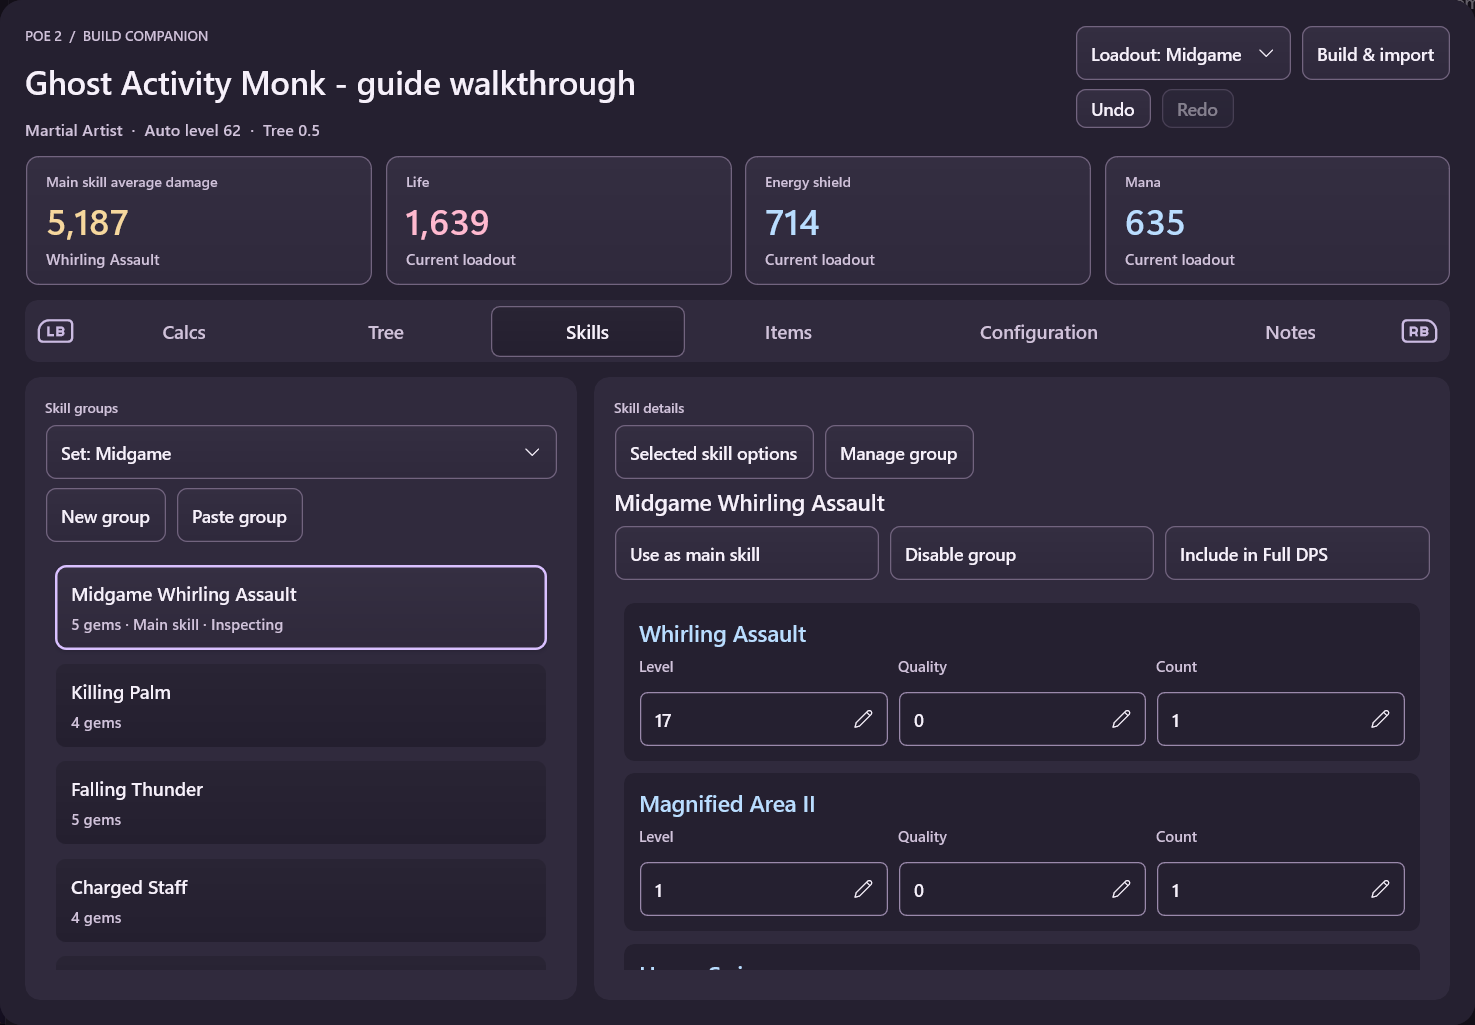
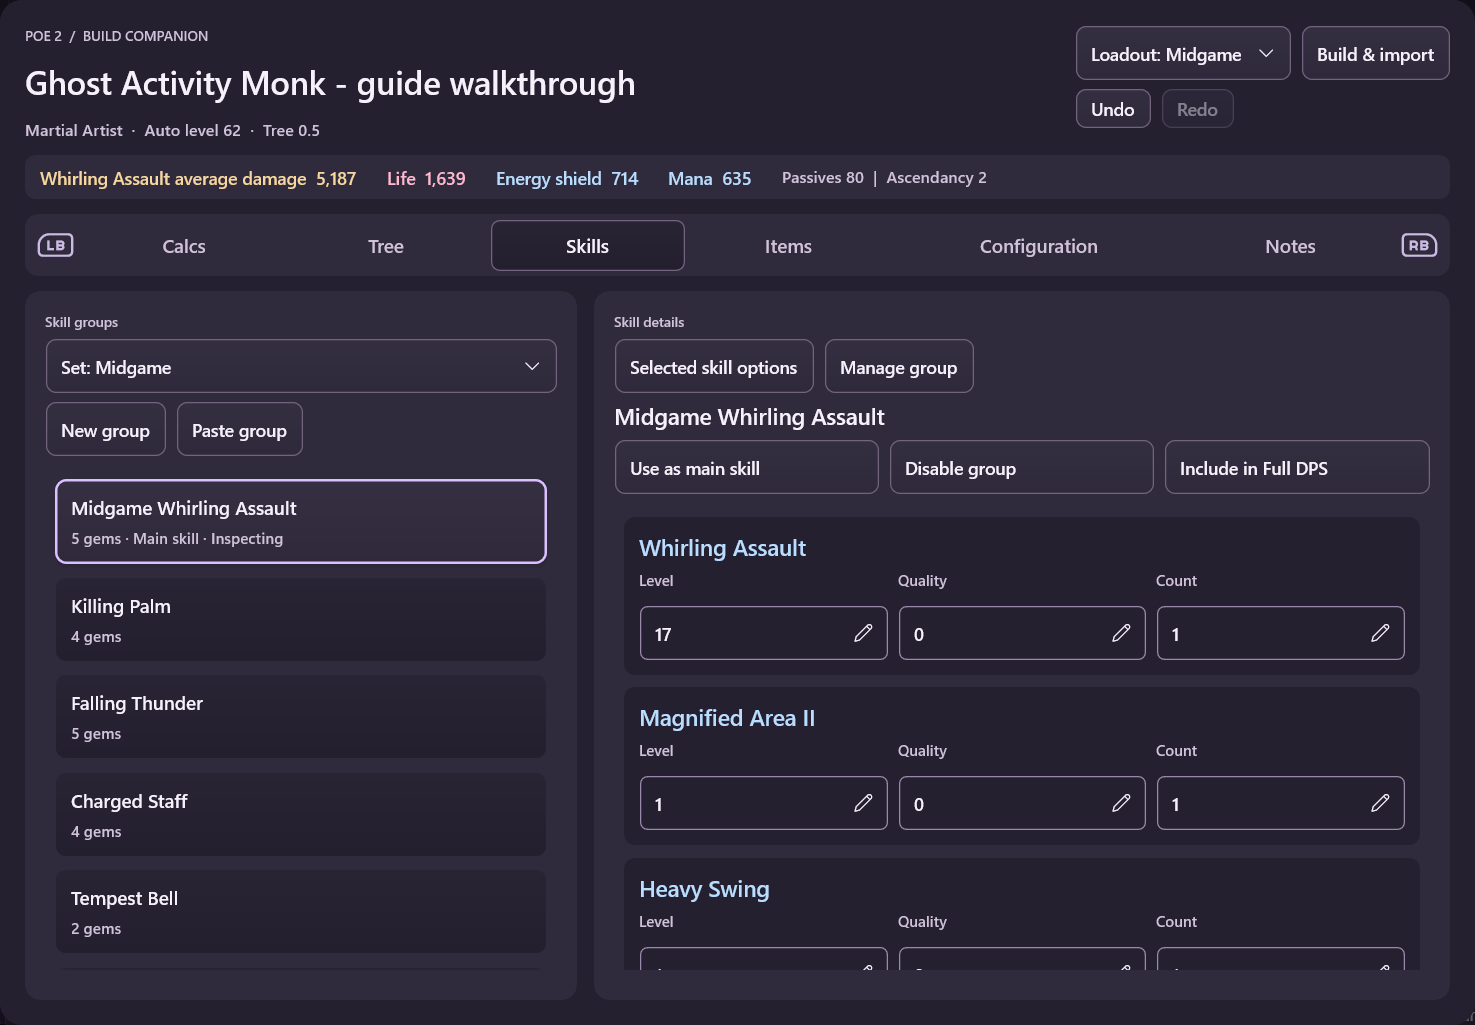
Add PoB build-control shortcuts and consistent section summaries

diff --git a/src/OverlayFrontend.WinUI/Validation/OverlayShellPage.PobQuickControlsValidation.cs b/src/OverlayFrontend.WinUI/Validation/OverlayShellPage.PobQuickControlsValidation.cs
@@ -46,6 +46,17 @@ internal sealed partial class OverlayShellPage
                 await L3();await WebAppUntil(()=>collection.CaptureFocusedItem()?.Index==remembered.Index);
                 if(Math.Abs(scroll.VerticalOffset-offset)>.5)throw new Exception("Returning to the row moved its viewport");
                 checks.Add("L3 returns to the remembered virtualized row and exact scroll position");
+                await R3();await WebAppUntil(()=>Focused("Widget.pob.loadout")||Focused("Widget.pob.menu"));
+                if(Math.Abs(scroll.VerticalOffset-offset)>.5)throw new Exception("R3 to build controls moved the passive viewport");
+                await R3();await WebAppUntil(()=>collection.CaptureFocusedItem()?.Index==remembered.Index&&Focused("Widget.pob.passives"));
+                if(Math.Abs(scroll.VerticalOffset-offset)>.5)throw new Exception("R3 return moved the passive viewport");
+                checks.Add("R3 reaches build controls and restores the deep virtualized passive row without scrolling");
+                var map=FindSlot(surface)!;map.Enter();
+                await WebAppUntil(()=>map.IsBrowsing);
+                if(!surface!.CaptureControllerGuide().Any(h=>h.Button==ControllerButton.RightStick&&h.Label=="Build controls"))throw new Exception("Tree focus omitted the R3 build-controls hint");
+                await R3();await WebAppUntil(()=>Focused("Widget.pob.loadout")||Focused("Widget.pob.menu"));
+                await R3();await WebAppUntil(()=>Focused("Widget.pob.map"));
+                checks.Add("Tree WebView passes R3 to its ancestor and shows the matching hint");
                 Invoke("Widget.pob.tab.4");
                 await WebAppUntil(()=>FindControl<Button>(surface!,"Widget.pob.config.category.0") is not null);
                 var count=0;while(FindControl<Button>(surface!,"Widget.pob.config.category."+count)is not null)count++;
@@ -68,6 +79,35 @@ internal sealed partial class OverlayShellPage
                     if(!Focused(category))throw new Exception("A short configuration list acquired an unnecessary shortcut");
                     checks.Add("Short configuration lists retain ordinary navigation without an L3 jump");
                 }
+                double? compactTabsY=null;
+                foreach(var (tab,target,large) in new[]{("Widget.pob.tab.2","Widget.pob.skill.1",false),("Widget.pob.tab.3","Widget.pob.item.1",false),("Widget.pob.section","Widget.pob.headline.2",true)})
+                {
+                    Invoke(tab);
+                    await WebAppUntil(()=>FindControl<Button>(surface!,target) is not null&&FindControl<Button>(surface!,"Widget.pob.cancel-operation") is null&&
+                        (FindControl<TextBlock>(surface!,"Widget.pob.headline.value.0") is not null)==large);
+                    await Task.Delay(350);
+                    var control=FindControl<Button>(surface!,target)!;control.Focus(FocusState.Keyboard);control.StartBringIntoView();
+                    await Task.Delay(150);
+                    if(!large)
+                    {
+                        var y=FindControl<Button>(surface!,tab)!.TransformToVisual(surface).TransformPoint(default).Y;
+                        if(compactTabsY is {} oldY&&Math.Abs(y-oldY)>1)throw new Exception("Skills and Items tabs shifted despite identical compact summaries");
+                        compactTabsY=y;
+                    }
+                    await R3();await WebAppUntil(()=>Focused("Widget.pob.loadout")||Focused("Widget.pob.menu"));
+                    await R3();await WebAppUntil(()=>Focused(target));
+                    checks.Add(tab+" has the correct summary and R3 restores "+target);
+                }
+                Invoke("Widget.pob.tab.2");
+                await WebAppUntil(()=>FindControl<Button>(surface!,"Widget.pob.gem.1level") is not null);
+                FindControl<Button>(surface!,"Widget.pob.gem.1level")!.Focus(FocusState.Keyboard);
+                await RouteButtonAsync(ControllerButton.A,ControllerEventPhase.Pressed);await RouteButtonAsync(ControllerButton.A,ControllerEventPhase.Released);
+                await WebAppUntil(()=>ActiveControllerKeyboard is not null);
+                var keyboard=ActiveControllerKeyboard;await R3();
+                if(!ReferenceEquals(keyboard,ActiveControllerKeyboard))throw new Exception("R3 escaped the controller keyboard");
+                await RouteButtonAsync(ControllerButton.B,ControllerEventPhase.Pressed);await RouteButtonAsync(ControllerButton.B,ControllerEventPhase.Released);
+                checks.Add("R3 remains owned by the open keyboard");
+                async Task R3(){await RouteButtonAsync(ControllerButton.RightStick,ControllerEventPhase.Pressed);await RouteButtonAsync(ControllerButton.RightStick,ControllerEventPhase.Released);}
                 async Task L3(){await RouteButtonAsync(ControllerButton.LeftStick,ControllerEventPhase.Pressed);await RouteButtonAsync(ControllerButton.LeftStick,ControllerEventPhase.Released);}
                 bool Focused(string id){for(var item=FocusManager.GetFocusedElement(XamlRoot) as DependencyObject;item is not null;item=VisualTreeHelper.GetParent(item))if(AutomationProperties.GetAutomationId(item)==id)return true;return false;}
                 void Invoke(string id){var button=FindControl<Button>(surface!,id)!;((IInvokeProvider)new ButtonAutomationPeer(button).GetPattern(PatternInterface.Invoke)).Invoke();}

diff --git a/samples/PobCompanion/Tests/QuickControlsTests.cs b/samples/PobCompanion/Tests/QuickControlsTests.cs
@@ -21,6 +21,33 @@ internal static class QuickControlsTests
         async Task Jump(string target){await widget.OnActionAsync(new("quick-controls."+target,"fixture"));check(View().FocusGroupEntryRequest?.GroupId==target,"L3 requests remembered group "+target);}
         try
         {
+            Set("result",baseline);
+            foreach(var section in new[]{"Calcs","Tree","Skills","Items","Configuration","Notes"})
+            {
+                Set("section",section);Set("detailKind","");
+                var view=View();var nodes=Nodes(view.Root).ToArray();
+                check(nodes.Any(n=>n.Id=="pob.headline.0")== (section=="Calcs"),section+" uses large statistic cards only in Calcs");
+                check(nodes.Any(n=>n.Id=="pob.compact.CombinedDPS")== (section!="Calcs"),section+" has exactly the intended summary layout");
+                check(nodes.Single(n=>n.Id=="pob.root").Shortcuts!.Any(s=>s.Button==ControllerButton.RightStick&&s.ActionId=="quick-controls.pob.buildtools"),section+" exposes R3 Build controls");
+                check(nodes.Single(n=>n.Id=="pob.buildtools").Shortcuts!.Any(s=>s.Button==ControllerButton.RightStick&&s.ActionId=="quick-controls.pob.body"),section+" header overrides R3 with Return to content");
+                check(nodes.Single(n=>n.Id=="pob.body").InitialChildFocusId is not null,"Body remembers the last content focus in "+section);
+                await Jump("pob.buildtools");await Jump("pob.body");
+            }
+            Set("section","Tree");Set("filter","");Set("detailKind","");
+            var emptySearch=View();
+            check(Nodes(emptySearch.Root).Single(n=>n.Id=="pob.tree.count").Text!.StartsWith("Allocated and granted passives"),"Empty passive search explains its restricted count");
+            Set("filter","Life");
+            check(Nodes(View().Root).Single(n=>n.Id=="pob.tree.count").Text!.StartsWith("Search results"),"Typed passive search labels matching results");
+            Set("filter","");
+            foreach(var state in new[]{"busy","preview","menu","library"})
+            {
+                Set("status","Updating build…");
+                Set("busy",state=="busy");Set("pendingBefore",state=="preview"?baseline:null);Set("detailKind",state is "menu" or "library"?state:"");
+                check(!Nodes(View().Root).SelectMany(n=>n.Shortcuts??[]).Any(s=>s.Button==ControllerButton.RightStick),"R3 is absent during "+state);
+                await widget.OnActionAsync(new("quick-controls.pob.buildtools","fixture"));
+                check(View().FocusGroupEntryRequest?.GroupId!="pob.buildtools","Stale R3 cannot escape "+state);
+            }
+            Set("busy",false);Set("pendingBefore",null);Set("detailKind","");
             foreach(var count in new[]{0,8,9,30})
             {
                 var state=JsonNode.Parse(baseline.State.GetRawText())!;

diff --git a/samples/PobCompanion/PobWidget.Workspace.cs b/samples/PobCompanion/PobWidget.Workspace.cs
@@ -30,10 +30,12 @@ public sealed partial class PobWidget
         if (section != "Tree") heading.Add(Text($"POE {game}  /  BUILD COMPANION", "eyebrow", "pob-eyebrow"));
         heading.Add(Text(BuildName(), "title", section == "Tree" ? "pob-tree-title" : "pob-title"));
         heading.Add(Text($"{identity}  ·  {(B(State,"autoLevel")?"Auto level":"Level")} {S(State, "level")}  ·  Tree {S(State, "treeVersion").Replace('_', '.')}", "context", "pob-muted"));
+        var tools=UI.Stack("pob.buildtools",UI.Row("pob.buildcontrols", controls.ToArray()).Classes("pob-toolbar"),history)
+            .RememberChildFocus(loadouts.Length>0?"pob.loadout":"pob.menu").Classes("pob-buildtools");
+        if(BuildControlsAvailable)tools=tools.Shortcut(ControllerButton.RightStick,"quick-controls.pob.body","Return to content");
         return UI.Grid("pob.header", [GridTrack.Auto()], [GridTrack.Star(), GridTrack.Auto()],
             UI.Stack("pob.identity", heading.ToArray()),
-            UI.Stack("pob.buildtools",UI.Row("pob.buildcontrols", controls.ToArray()).Classes("pob-toolbar"),history)
-                .Classes("pob-buildtools").InGrid(column: 1)).Spacing(0, 20);
+            tools.InGrid(column: 1)).Spacing(0, 20);
     }
 
     private WidgetElement Navigation()
@@ -335,9 +337,10 @@ public sealed partial class PobWidget
             var quick=NeedsQuickControls(passiveQuery.Entries.Length);
             side.Add(QuickControls(UI.Stack("pob.tree.search-controls",
                 Text("Find a passive", "tree.searchtitle", "pob-eyebrow"),
-                UI.TextEntry(filter, "Search passives", "search", "pob.search").Classes("pob-input")).Classes("pob-buildtools"),
+                UI.TextEntry(filter, "Search all passives", "search", "pob.search").Classes("pob-input"),
+                Text("Search by name or modifier, including unallocated nodes.","tree.searchhint","pob-small pob-muted")).Classes("pob-buildtools"),
                 "pob.search","pob.tree.results","Passives",quick));
-            side.Add(Text($"{passiveQuery.Entries.Length} passives","tree.count","pob-muted"));
+            side.Add(Text($"{(filter.Length==0?"Allocated and granted passives":"Search results")} · {passiveQuery.Entries.Length}","tree.count","pob-muted"));
             side.Add(QuickControls(UI.Stack("pob.tree.results",list).Classes("pob-workspace"),
                 "pob.passives","pob.tree.search-controls","Search",quick));
         }

diff --git a/samples/PobCompanion/PobWidget.cs b/samples/PobCompanion/PobWidget.cs
@@ -166,7 +166,7 @@ public sealed partial class PobWidget : Widget
             else
             {
                 children.Add(BuildHeader());
-                children.Add(section is "Tree" or "Configuration" or "Notes" || detailKind is "skill-manage" or "gem-picker" ? CompactHeadlines() : Headlines());
+                children.Add(section=="Calcs" ? Headlines() : CompactHeadlines());
                 children.Add(Navigation());
                 if (pendingBefore is not null && !(section == "Tree" && detailKind == "node"))
                     children.Add(UI.Row("pob.preview", Text("PREVIEW · not applied", "preview.label", "pob-eyebrow pob-gold"), Button("Apply change", "apply"), Button("Discard", "cancel")).Classes("pob-preview"));
@@ -176,7 +176,17 @@ public sealed partial class PobWidget : Widget
             var scope = "pob.scope." + section.ToLowerInvariant() + "." + (pendingBefore is not null ? "preview" : detailKind.Length == 0 || InlineDetail ? "main" : detailKind);
             var initial = detailKind=="library" ? "pob.library.search" : detailKind=="menu"?"pob.rename":result is null ? "pob.paste" : detailKind.Length > 0 && !InlineDetail ? "pob.back" : SectionEntry();
             if (pendingBefore is not null) initial = "pob.apply";
+            if(result is not null && !ManagementView)
+            {
+                var body=UI.Stack("pob.body",children.Skip(1).ToArray()).RememberChildFocus(initial).Classes("pob-body");
+                children=[children[0],body];
+            }
             var root = UI.Stack("pob.root", children.ToArray()).Classes("pob-root").RememberChildFocus(initial);
+            if(BuildControlsAvailable)
+            {
+                quickControlTargets.Add("pob.buildtools");quickControlTargets.Add("pob.body");
+                root=root.Shortcut(ControllerButton.RightStick,"quick-controls.pob.buildtools","Build controls");
+            }
             if (busy) root = root.Shortcut(ControllerButton.B, "cancel-operation");
             else if(result is null&&detailKind=="library")root=root.Shortcut(ControllerButton.B,"back");
             if (result is not null)

diff --git a/src/OverlayFrontend.WinUI/Presentation/WidgetViewPresenter.ControllerGuide.cs b/src/OverlayFrontend.WinUI/Presentation/WidgetViewPresenter.ControllerGuide.cs
@@ -60,7 +60,15 @@ internal sealed partial class WidgetViewPresenter
                 new(ControllerPrompt.RightBumper, "Loop", ControllerButton.RightBumper),
                 .. (media.CanExpand ? (ControllerGuideHint[])[new(ControllerPrompt.RightStickPress, media.IsExpanded ? "Collapse" : "Expand", ControllerButton.RightStick)] : []),
                 .. (media.IsExpanded || media.IsAdjustingVolume ? (ControllerGuideHint[])[new(ControllerPrompt.B, media.IsAdjustingVolume ? "Done" : "Back", ControllerButton.B)] : [])];
-        if (FocusedBrowser is { } browser) return CaptureBrowserGuide(browser);
+        if (FocusedBrowser is { } browser)
+        {
+            var browserHints=CaptureBrowserGuide(browser);
+            if(browser.PresentedInPin||browser.Surface?.ActiveSurface is not {HasDialog:false,NeedsRecovery:false})return browserHints;
+            // R3 is the browser's explicitly unowned button; expose only that
+            // ancestor shortcut, rather than advertising consumed page controls.
+            return (ControllerGuideHint[])[..browserHints,..ControllerGuideModel.Resolve(ControllerFocusPath(),new HashSet<ControllerButton>(),false)
+                .Where(hint=>hint.Button==ControllerButton.RightStick)];
+        }
         var focused = FocusedBinding();
         var path = ControllerFocusPath();
         if (focused?.Element is WidgetIndexedCollectionView && path.Count == 0) return [];

diff --git a/samples/PobCompanion/PobWidget.Actions.cs b/samples/PobCompanion/PobWidget.Actions.cs
@@ -33,6 +33,7 @@ public sealed partial class PobWidget
             if(id.StartsWith("quick-controls.",StringComparison.Ordinal))
             {
                 var target=id["quick-controls.".Length..];
+                if(target is "pob.buildtools" or "pob.body" && !BuildControlsAvailable)return ValueTask.CompletedTask;
                 var permitted=pendingBefore is null || target is "pob.tree.preview.actions" or "pob.tree.preview-details";
                 if(permitted&&quickControlTargets.Contains(target)){quickControlTarget=target;historyFocusRequested=false;focusRequestSequence++;Invalidate();}
                 return ValueTask.CompletedTask;

diff --git a/src/OverlayFrontend.WinUI/Browser/BrowserSurface.cs b/src/OverlayFrontend.WinUI/Browser/BrowserSurface.cs
@@ -249,6 +249,9 @@ internal sealed partial class BrowserSurface : Grid, IAsyncDisposable
             dialog.Handle(button, phase); return true;
         }
         if (HasDialog) return true;
+        // The browser has no R3 action. Let an enclosing widget own this
+        // gesture, after browser dialogs have had their exclusive input turn.
+        if (button == ControllerButton.RightStick) return false;
         if (button == ControllerButton.B && toolbarFocused && (isPopup || document.Options.Chrome == BrowserChrome.OnDemand))
         {
             if (phase == ControllerEventPhase.Pressed) { backReleaseOwned = true; ToggleToolbar(); }

diff --git a/samples/PobCompanion/PobWidget.QuickControls.cs b/samples/PobCompanion/PobWidget.QuickControls.cs
@@ -10,6 +10,8 @@ public sealed partial class PobWidget
     internal static bool NeedsQuickControls(int rows) => rows > 8;
     private readonly HashSet<string> quickControlTargets = new(StringComparer.Ordinal);
     private string? quickControlTarget;
+    private bool BuildControlsAvailable => result is not null && !ManagementView && !busy &&
+        pendingBefore is null && pendingImport is null && deleteBuildId is null && skillRemoval is null;
 
     private ContainerElement QuickControls(ContainerElement group, string initial, string destination,
         string label, bool enabled, bool preview = false)

diff --git a/samples/PobCompanion/README.md b/samples/PobCompanion/README.md
@@ -43,6 +43,10 @@ Tree preview actions stay above the scrolling comparison panel. Right from a ski
 
 Long lists offer contextual **L3** jumps to their surrounding controls and back to the remembered row: passive search, saved-build search/sort, set selectors, gem-group actions and expanded tree-preview actions. Configuration cycles through search/set controls, Show explanations and the section list. Ordinary lists qualify above eight rows; taller gem cards count as two visual rows. Short lists, absent set selectors and ordinary reading content do not add shortcuts, except for Notes' explicit jump to its navigation tab. These jumps preserve the list viewport, and the tree WebView keeps its own L3 toolbar action.
 
+**R3** jumps to the build controls (Loadout, Build & import, Undo/Redo); from those controls it returns to the remembered content control without moving the list viewport. It is unavailable during operations, pending comparisons and modal choices. Keyboards and browser dialogs retain exclusive input. Calcs retains its large statistic cards; every other section uses the compact summary.
+
+An empty passive search lists **allocated and granted passives**. Entering text searches all interactive nodes in the current tree by name or modifier, including unallocated nodes. The result heading identifies which list is shown.
+
 Comparison previews use upstream PoB's displayed-stat comparison rules, including relevant stats, percentage changes, lower-is-better values and separate minion/player groups. They compare the actual committed and proposed calculations, including any automatic character-level change. Tree previews start with this overall impact and point counts; **Show changed nodes** expands all node names and modifiers, using pre-refund descriptions for removed nodes. Expanding details does not apply or discard the change. Restored previews regenerate their summaries from both saved XML snapshots.
 
 Subsequent work uses a floating progress notification with Cancel (or B), without inserting rows into the workspace. Progress remains until the operation completes. Informational feedback lasts three seconds; warnings and errors last eight seconds. A new operation replaces prior feedback.
